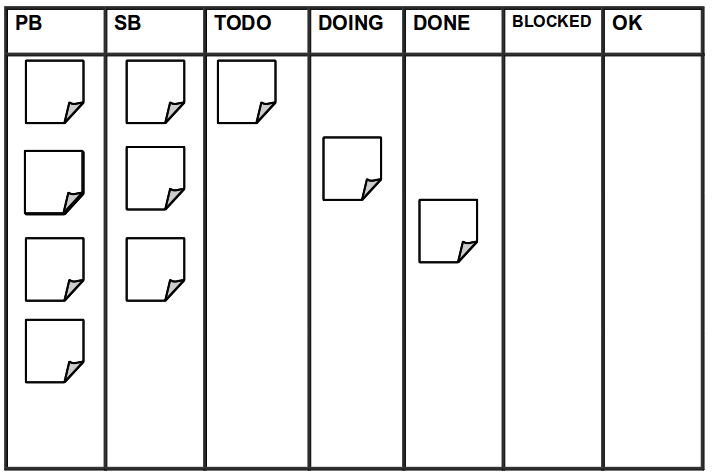
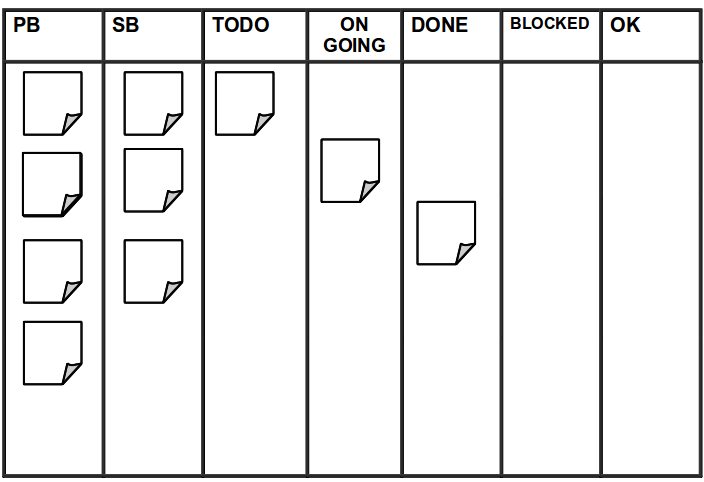
Update ScrumKanbanBoard and add text to philosophy section

Changed region(s): [[0.0, 0.0, 1.0, 1.0]]

diff --git a/content/philosophy.tex b/content/philosophy.tex
@@ -108,3 +108,61 @@ Se suele asociar a los valores del Manifiesto Ágil como principios de Scrum. Po
 \item \textbf{Desarrollo iterativo:} El desarrollo iterativo permite una construcción gradual en proyectos complejos. En cada iteración el equipo evoluciona el producto (hace una entrega incremental) a partir de los resultados completados en las iteraciones anteriores, añadiendo nuevos objetivos/requisitos o mejorando los que ya fueron completados, de manera que el cliente pueda obtener los beneficios del proyecto de forma incremental. El desarrollo iterativo permite gestionar las expectativas del cliente (requisitos desarrollados, velocidad de desarrollo, calidad) de manera regular y lograr reacción, aceptación del mercado y adaptabilidad. Permite que el cliente pueda obtener resultados importantes y útiles ya desde las primeras iteraciones. Facilita la mejora ya que al tener experiencias por períodos de iteración se puede mejorar de las experiencias de iteraciones previas y permite planificar los cambios necesarios para aumentar la productividad y calidad en iteraciones subsiguientes.
 
 \end{enumerate}
+
+\section{Filosofías referentes}
+
+\subsection{Emergentismo}
+
+Scrum adhiere al principio de auto-organización y está alineado al Manifiesto Ágil y a su filosofía. En la filosofía ágil se toma una idea basada en el emergentismo que la podemos encontrar en el principio: "Las mejores arquitecturas, requisitos y diseños emergen de equipos auto-organizados" \cite{Beck-2001}. El emergentismo sostiene que el "todo puede ser más que la suma de las partes"\footnote{"The whole is more than the sum of its parts" (Ludwig Von Bertalanffy, General System theory, 1968). Esta idea del sistemismo y el emergentismo también está relacionada al holismo que sostiene la misma afirmación.} que significa que desde un nivel de realidad dado (n) donde componentes se interelacionan (S1, S2, S3... Sn) pueden emerger sistemas, propiedades o características nuevas en el nivel superior (n+1) que no existen en los componentes individuales, pero que relacionados la generan (ver figura \ref{fig:Emergentism}). En este sentido suele llamarse emergencia al fenómeno en el que algo emerge o es emergente, en el que una totalidad llega a existir, a una cosa nueva que posee una propiedad emergente, a un proceso nuevo que surge de algo, a una estructura que aparece de otras, a un orden que viene de otro, a una novedad cualitativa en la naturaleza que brota, a un sistema que resulta de componentes relacionados o al surgimiento espontáneo de algo nuevo.
+
+\begin{figure}[h]
+  \centering
+  \includegraphics[width=0.9\textwidth]{Emergentism}
+  \caption{Modelo de emergentismo}
+  \centering
+  \label{fig:Emergentism} %\ref{fig:Emergentism}
+\end{figure}
+
+En este sentido la auto-organización sucede cuando componentes, sistemas o personas se organizan sin aparente dirección o mando controlador y generan espontáneamente una forma global de orden o coordinación. Esto se da en una gran variedad de fenómenos físicos, químicos, biológicos, sociales y sistemas cognitivos. A nosostros nos incumbe principalmente lo relacionado a lo social e informático. 
+
+\subsubsection{Sinergia}
+
+En lo social se sabe que se pueden lograr equipos de personas con una alta organización y coordinación sin la necesidad de un líder director, sin un lider que ordene y controle, e incluso sin planificación alguna. Pues, no solo organización y coordinación se puede lograr desde equipos auto-organizados, sino que también se puede lograr sinergia. La sinergia es la prestancia extra que puede dar un equipo debido a la acción conjunta de individuos en equipo que es superior a la suma de las individualidades. Otra propiedad emergente que se puede lograr en grupos auto-organizados es la inteligencia colectiva o inteligencia enjambre que incluye a la "Ley de Linus" y a la "Sabiduría de grupo".
+
+\subsubsection{Ley de Linus}
+
+Se pueden formar muchos tipos de inteligencia colectiva en equipos colaborativos. Por ejemplo, lo más común en el desarrollo de software es que problemas extremadamente complejos solo pueden ser resuelto por un conjunto de personas trabajando conjuntamente en él, a pesar de que muchas veces sea una sola persona la que resuelva un determinado problema, esa persona nunca podría haberlo hecho sola. Es decir que, dada una base suficiente de desarrolladores y testers validadores colaborando, casi cualquier problema puede ser caracterizado rápidamente, y su solución ser obvia \cite{Eric-Raymond-1997}. A esta idea de inteligencia colectiva se la denomina "Ley de Linus".
+
+\subsubsection{Sabiduría de multitud}
+
+La Sabiduría de grupo o de multitudes es una idea, apoyada en evidencias, de que dada "ciertas condiciones" las decisiones o predicciones tomadas colectivamente por un grupo de personas suelen ser más atinadas que las decisiones o predicciones individuales o que las que son tomadas sobre la base del conocimiento de un experto \cite{James-Surowiecki-2005}. Es más, a medida que el grupo es más grande, las decisiones o predicciones son mas acertadas.
+
+Claro que para que esto suceda deben cumplirse ciertas condiciones. Para Surowieki (escritor del libro La Sabiduría de las Multitudes\footnote{\cite{James-Surowiecki-2005}}) las condiciones necesarias son:
+
+\begin{enumerate}
+
+\item \textbf{Diversidad:} el grupo debe tener diversidad de perfiles para lograr una diversidad de Opiniones. Pues, si todos los del grupo piensan igual o semejante, pertenecen a la misma tribu urbana u subcultura, son de la misma profesión o tienen las mismas características de perfil profesional o psicológico, entonces es menos probable de que logren una sabiduría de grupo.
+
+\item \textbf{Independencia:} el grupo no debería estar influenciado y las opiniones de los integrantes tampoco. Si las personas son influenciadas por el grupo se puede caer en lograr el "pensamiento de grupo" y tomar decisiones malas o irracionales. Por otro lado, si el grupo es influenciado por un actor externo al grupo la decisión grupal es dirigida.
+
+\item \textbf{Agregación:} El sistema de decisión grupal debe ser agregativo, que significa que debe tener la capacidad de sumar o promediar las opiniones individuales. Un sistema de votación no agregativo, por ejemplo por votación de la mayoria sobre una alternativa, puede hacer prevalicer una decisión individual. Un ejemplo de agregación es cuando la decisión métrica grupal se basa en el promedio de todas la decisiones\footnote{Un ejemplo de Sabiduría de multitud es cuando se le pide a muchas personas que predigan la cantidad de elementos contenidos en un frasco transparente. Es sorprendente como el promedio se acerca considerablemente al número real.}.
+
+% Yo agregaría pericia. 
+% Pues si juntamos un montón de filósofos, escritores y médicos a estimar una tarea de desarrollo informático es muy probable que fallen en hacerlo. 
+
+\end{enumerate}
+
+\subsubsection{Arquitectura emergente}
+
+Hay dos formas extremas de ver el desarrollo de software incluyendo al diseño de software. Una es la que sugiere que se pueden preveer todas las cientos de miles de cuestiones que emergen cuando se desarrolla el software y, en consecuencia, se trata de limitar las respuestas a las mismas conduciendo un desarrollo planificado, estructurado, dirigido y liderado (el extremo izquierdo del aspecto que se muestra en la figura \ref{fig:DesignSpectrum}) \cite{Neal-Ford-2010}. La otra forma es no anticipar nada, permitiendo que las soluciones software emergan espontáneamente a medida que evoluciona el desarrollo en un proceso no dirigido, no liderado y descentralizado (el extremo derecho del aspecto que se muestra en la figura \ref{fig:DesignSpectrum}). En la primera opción el rol de los líderes y expertos (por ejemplo líderes de proyecto y arquitectos expertos), las reglas globales de dirección, el trabajo de comienzo y la información inicial es fundamental para el desarrollo. En el lado de la segunda opción, la orientada a fenómenos emergentes, el rol de todos los actores, el trabajo en equipo y las reglas locales de trabajo son lo principal para el desarrollo. La emergencia de arquitectura se da, entre otras cosas, cuando se crea una arquitectura inicial simple y flexible, con decisiones tomadas que no son irreversibles, y con una evoluciona en el tiempo que considera los nuevos requisitos y problemas que surjan.
+
+\begin{figure}[h] 
+  \centering
+  \includegraphics[width=0.99\textwidth]{DesignSpectrum}
+  \caption{Modelo del espectro del tipo desarrollo de software}
+  (Espectro que abarca el diseño \cite{Neal-Ford-2010})
+  \centering
+  \label{fig:DesignSpectrum} %\ref{fig:DesignSpectrum}
+\end{figure}
+
+Hay una obra literaria llamada "La catedral y el bazar"\footnote{\cite{Eric-Raymond-1997}} escrita por el hacker Eric S. Raymond en 1997 que expone esta idea. La misma analiza dos modelos de producción de software: la catedral que representa el modelo de desarrollo más hermético y vertical (el lado izquierdo de la figura \ref{fig:DesignSpectrum}) y por otro lado el bazar, con su dinámica horizontal y bulliciosa (el lado derecho de la figura \ref{fig:DesignSpectrum}).

diff --git a/content/complementary.tex b/content/complementary.tex
@@ -13,12 +13,14 @@
 % Scrum task board
 % Comunicación osmótica
 
-
+\newpage
 \section{Técnicas de Comunicación}
 
 \subsection{Scrum kanban board}
 
-El Scrum kanban board es una técnica que consiste en utilizar un tablero Kanban (ver figura \ref{fig:ScrumKanbanBoard}), como irradiador de información, para el manejo del cilo de estados de las tareas y de los impedimentos. El tablero Kanban debe ser visible por todo el equipo y por lo tanto transparente para todos los involucrados. Por ejemplo, durante una Daily Scrum todo el mundo es capaz de ver qué tareas se resuelven, cuáles no se han abordado todavía y qué impedimentos existen.
+El Scrum kanban board es una técnica que consiste en utilizar un tablero Kanban (ver figura \ref{fig:ScrumKanbanBoard}), como irradiador de información, para el manejo del cilo de estados de las tareas y de los impedimentos. El tablero Kanban debe ser visible por todo el equipo y por lo tanto transparente para todos los involucrados. Por ejemplo, durante una Daily Scrum todo el equipo es capaz de ver qué tareas se resuelven, cuáles no se han abordado todavía y qué impedimentos existen.
+
+\subsubsection{Ejemplo de un Scrum kanban board}
 
 \begin{figure}[h]
   \centering
@@ -28,7 +30,17 @@ El Scrum kanban board es una técnica que consiste en utilizar un tablero Kanban
   \label{fig:ScrumKanbanBoard} %\ref{fig:ScrumKanbanBoard}
 \end{figure}
 
+\subsubsection{Ejemplo de un Scrum board}
 
+\begin{figure}[h]
+  \centering
+  \includegraphics[width=0.9\textwidth]{ScrumBoard}
+  \caption{Tablero Scrum}
+  \centering
+  \label{fig:ScrumBoard} %\ref{fig:ScrumBoard}
+\end{figure}
+
+\newpage
 \section{Malas prácticas}
 
 Existen muchas causas diversas de que se fracase en la implementación de Scrum. A esas acciones causas resultado de prácticas y que perjudican el buen funcionamiento de Scrum las podemos llamar malas prácticas y constituirán prácticas que se aconseja evitar.

diff --git a/content/origin.tex b/content/origin.tex
@@ -120,7 +120,8 @@ La combinación del "Modelo en Cascada" con la "Gestión de Proyectos Clásica" 
 \begin{figure}[h]
   \centering
   \includegraphics[width=0.99\textwidth]{WaterfallMethodology}
-  \caption{Metodología Cascada criticada (Diagrama integrador del Modelo Cascada \cite{Winston-Royce-1970}, la Metodología Cascada \cite{Ken-Schwaber-1995} y la Metodología de Gestión de Proyectos \cite{PMBOK-1996})}
+  \caption{Metodología Cascada criticada por Scrum}
+  (Diagrama integrador del Modelo Cascada \cite{Winston-Royce-1970}, la Metodología Cascada \cite{Ken-Schwaber-1995} y la Metodología de Gestión de Proyectos \cite{PMBOK-1996})
   \centering
   \label{fig:WaterfallMethodology} %\ref{fig:WaterfallMethodology}
 \end{figure}

diff --git a/ScrumEnIngenieriaDeSoftware.tex b/ScrumEnIngenieriaDeSoftware.tex
@@ -35,7 +35,8 @@
 
 % General structure
 
-\include{content/cover}            % Title and author
+\include{content/cover}            % First page: Title and author
+%\include{content/second_page}      % Second page: Printing and Publishing data
 \include{content/contents}         % contents table and figures list
 
 % Chapters
